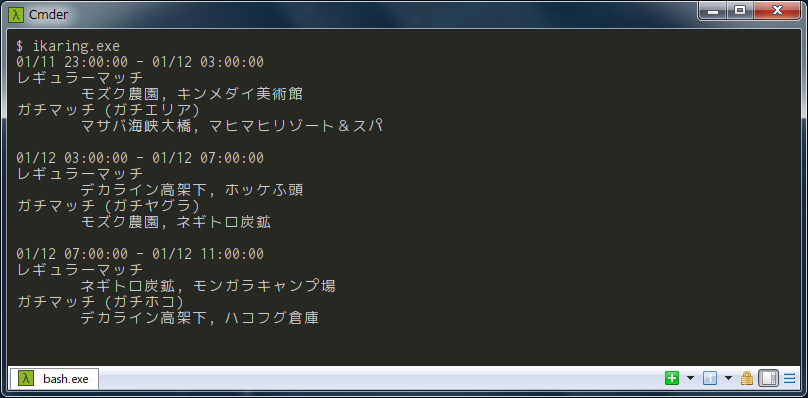
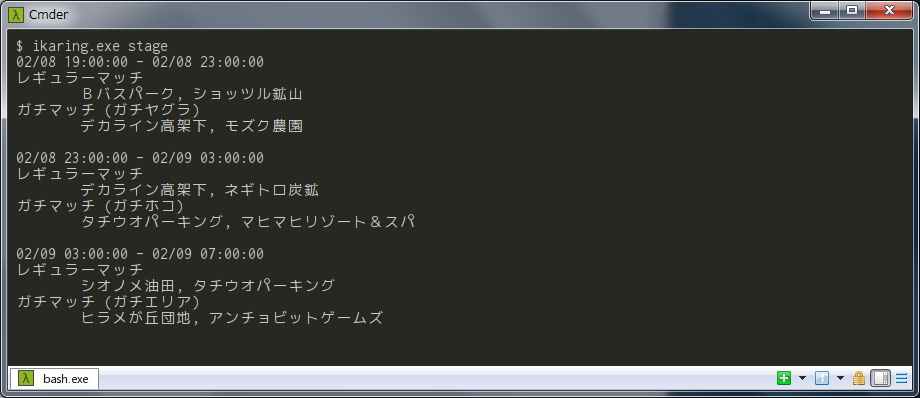
fix README.md for new sub command

Changed region(s): [[0.0, 0.0, 0.7426, 1.0], [0.8045, 0.0, 1.0, 1.0]]

diff --git a/README.md b/README.md
@@ -6,10 +6,16 @@ this is a cli client for SplatNet with golang
 getting stage schedules
 
 ```
-$ ikaring
+$ ikaring stage
 ```
 
 ![ScreenShot](img/screenshot.png)
+
+getting ranking
+
+```
+$ ikaring rank
+```
 
 ## Install
 
